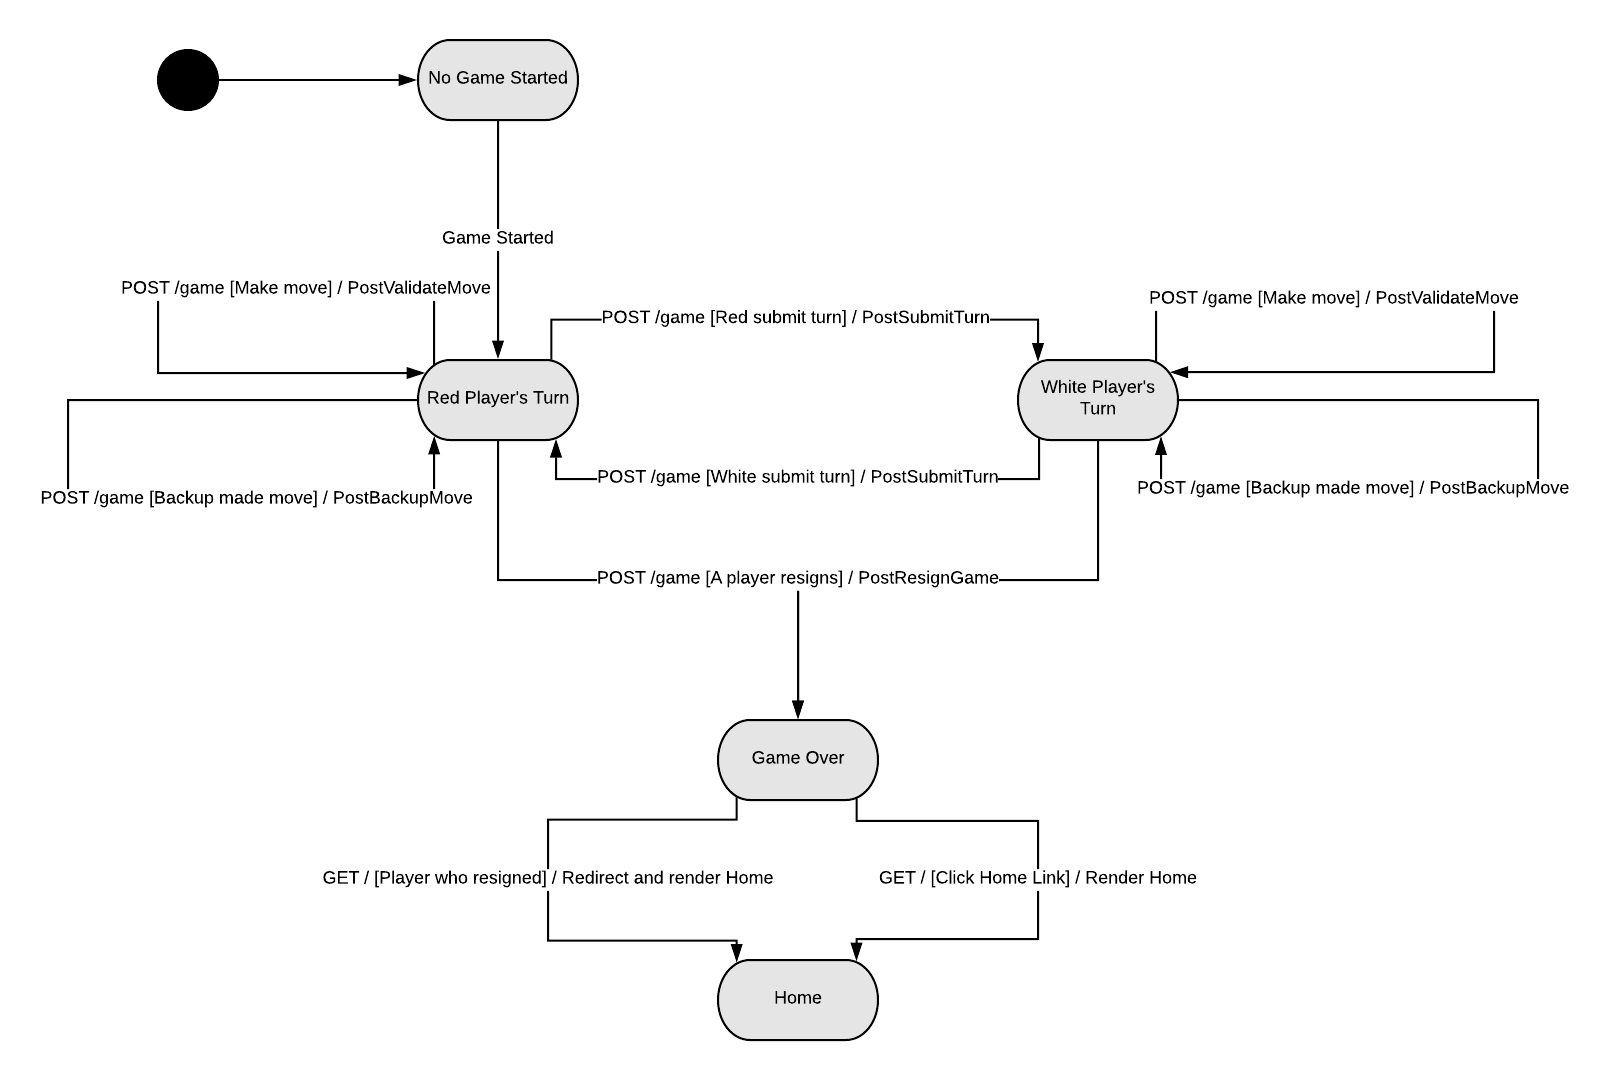
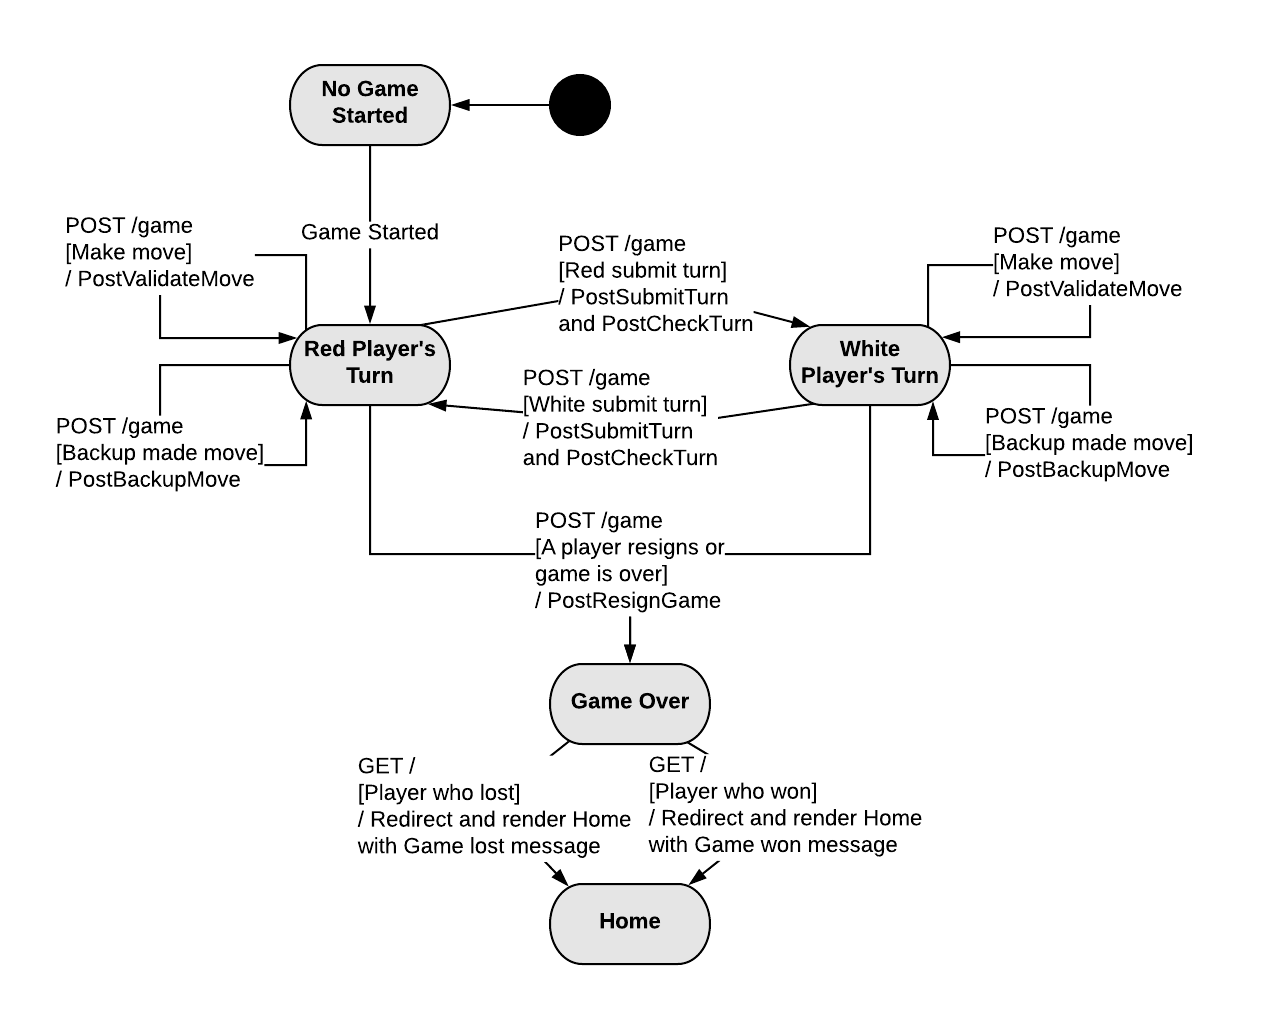
Design doc: added various statecharts

diff --git a/docs/DesignDoc.md b/docs/DesignDoc.md
@@ -43,6 +43,8 @@ page.
 | Multiple Jump Move | Jump moves performed in succession on the same turn by the same piece |
 | End-game Condition | A game can be won when a the other player has no more pieces or moves on their turn |
 | Game Over | A game is finished when a player resigns or an end-game condition is met |
+| Ongoing Game | A game has not reached the state where the game has is over |
+| Finished Game | A game has reached the state where the game has been over |
 
 ## Requirements
 
@@ -119,6 +121,12 @@ with the WebCheckers application.
 
 ![The WebCheckers Web Interface Statechart](web-interface-statechart.png)
 
+![Game Statechart](game-statechart.png)
+
+![Spectate Mode Statechart(spectate-statechart.png)
+
+![Replay Mode Statechart(replay-statechart.png)
+
 Users can expect to be connected to the home page where they will have the option to sign in.
 Upon visiting the sign in page, users are prompted to enter a username. A username must follow
 specific criteria to be valid. Once a user has signed in, they will be able to see other players
@@ -161,7 +169,6 @@ Provided below is each page and the routes that are used as well as a descriptio
   from the move. These actions are handled by the PostSubmitTurnRoute and PostBackupMoveRoute.
   * At any point of the game, a player can resign from the game and return to the home page.
   The other player will see a message indicating that this player resigned.
-  ![The Game Statechart](game-statechart.png)
 
 ### Application Tier
 The application tier facilitates interactions between the game objects of the model and the server and
